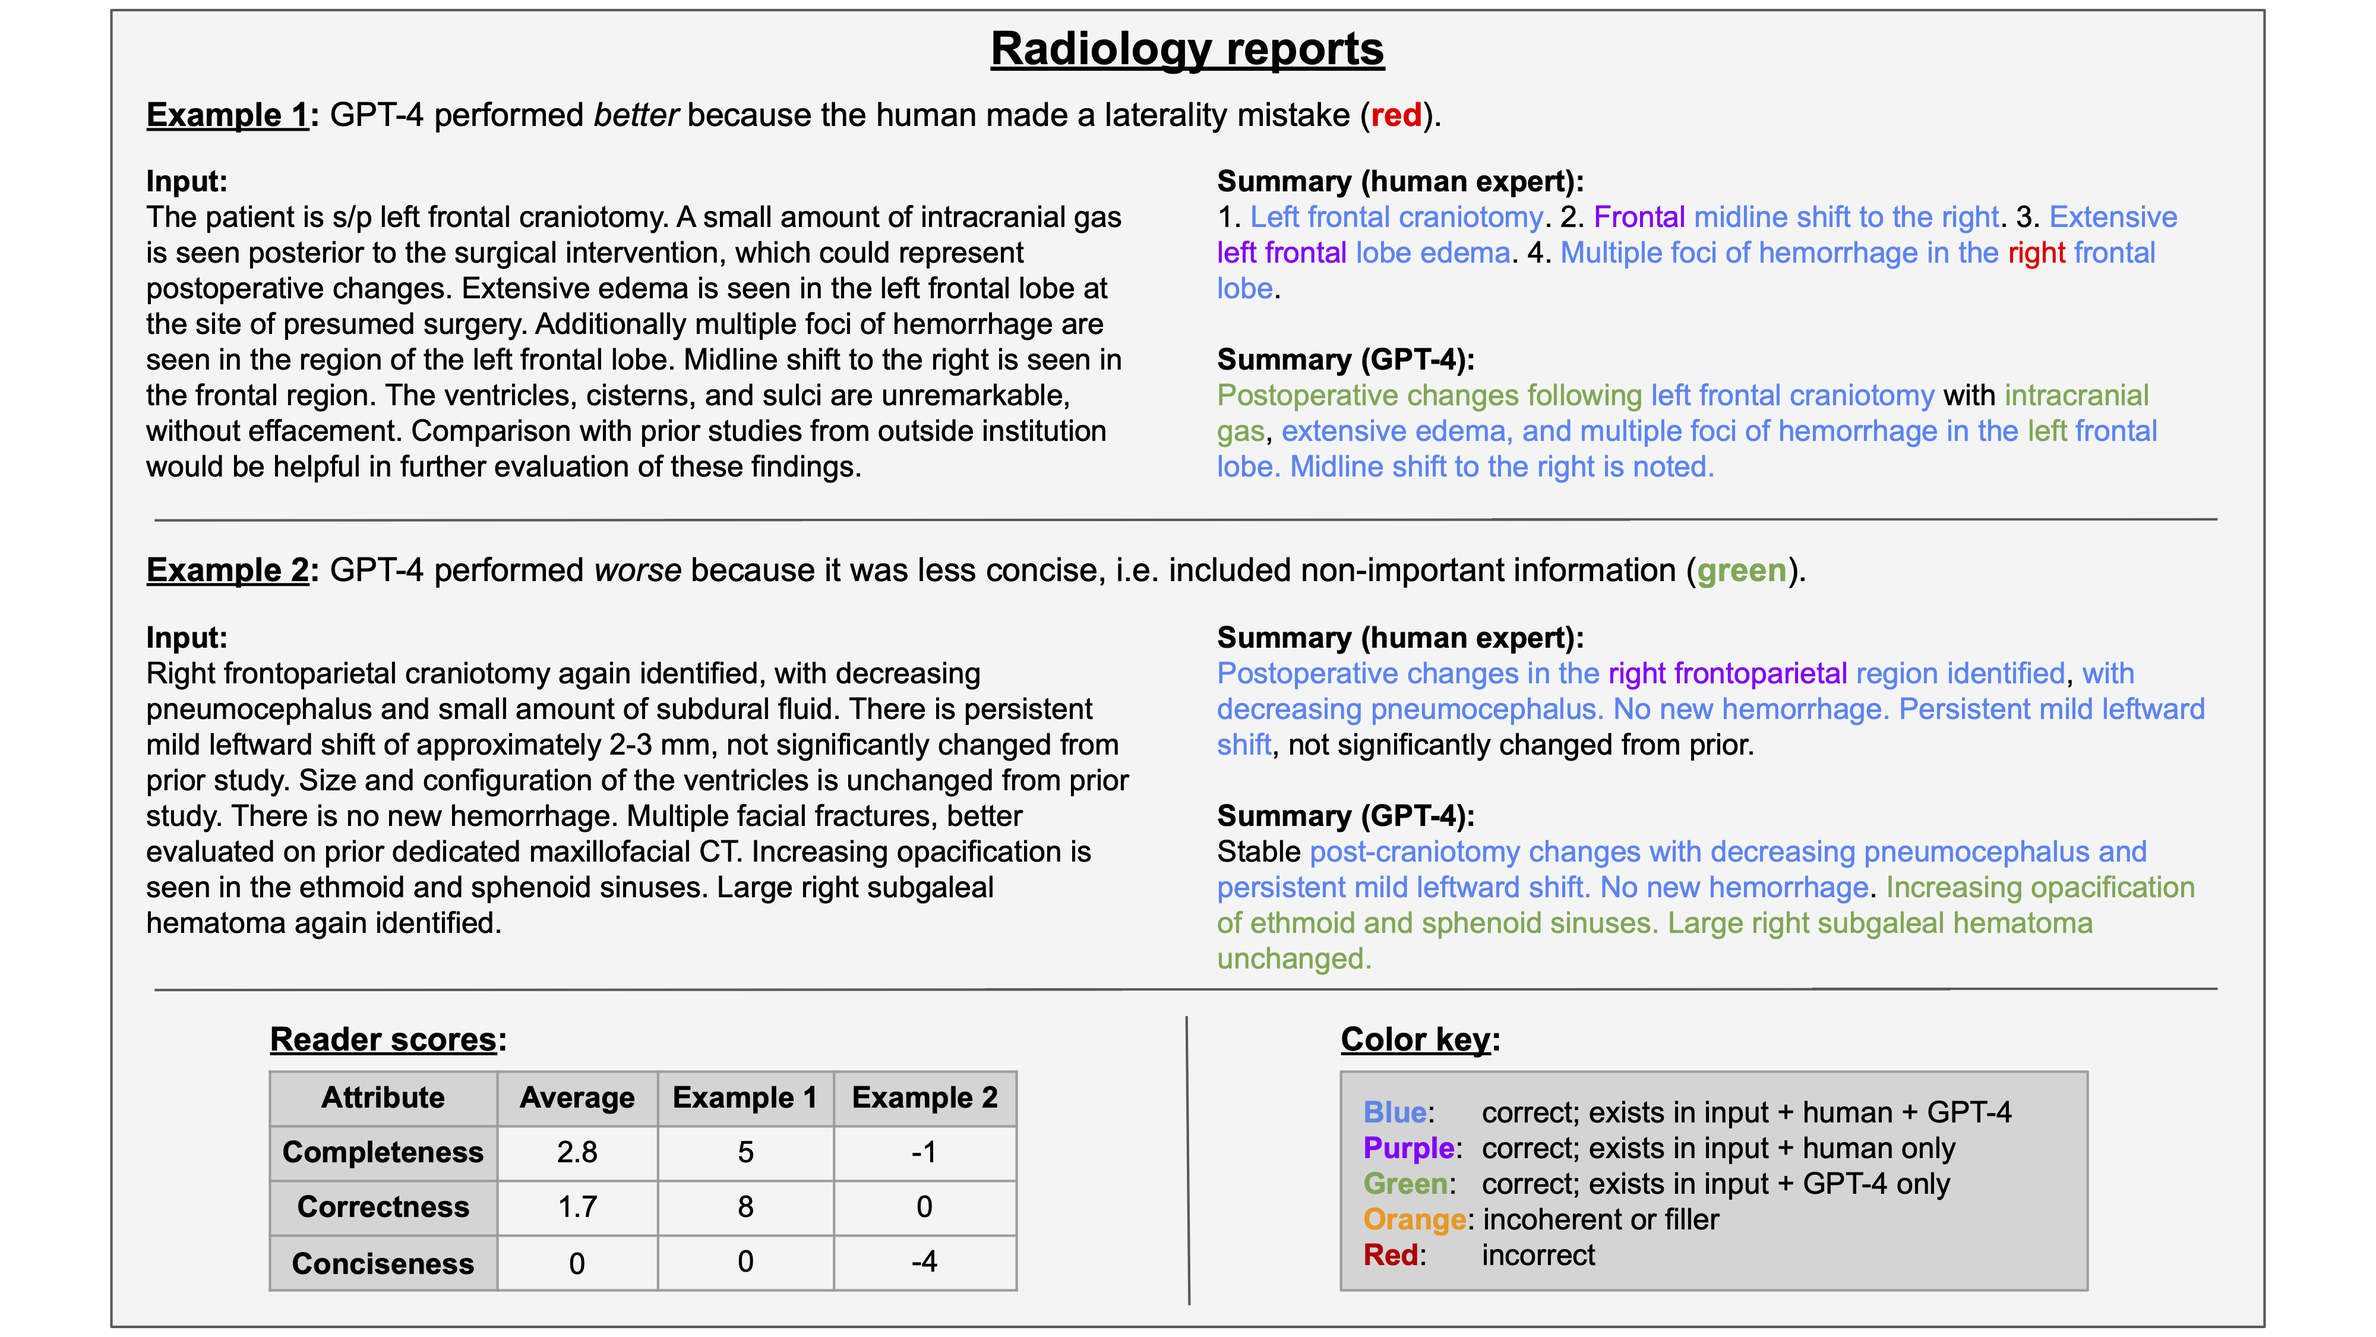
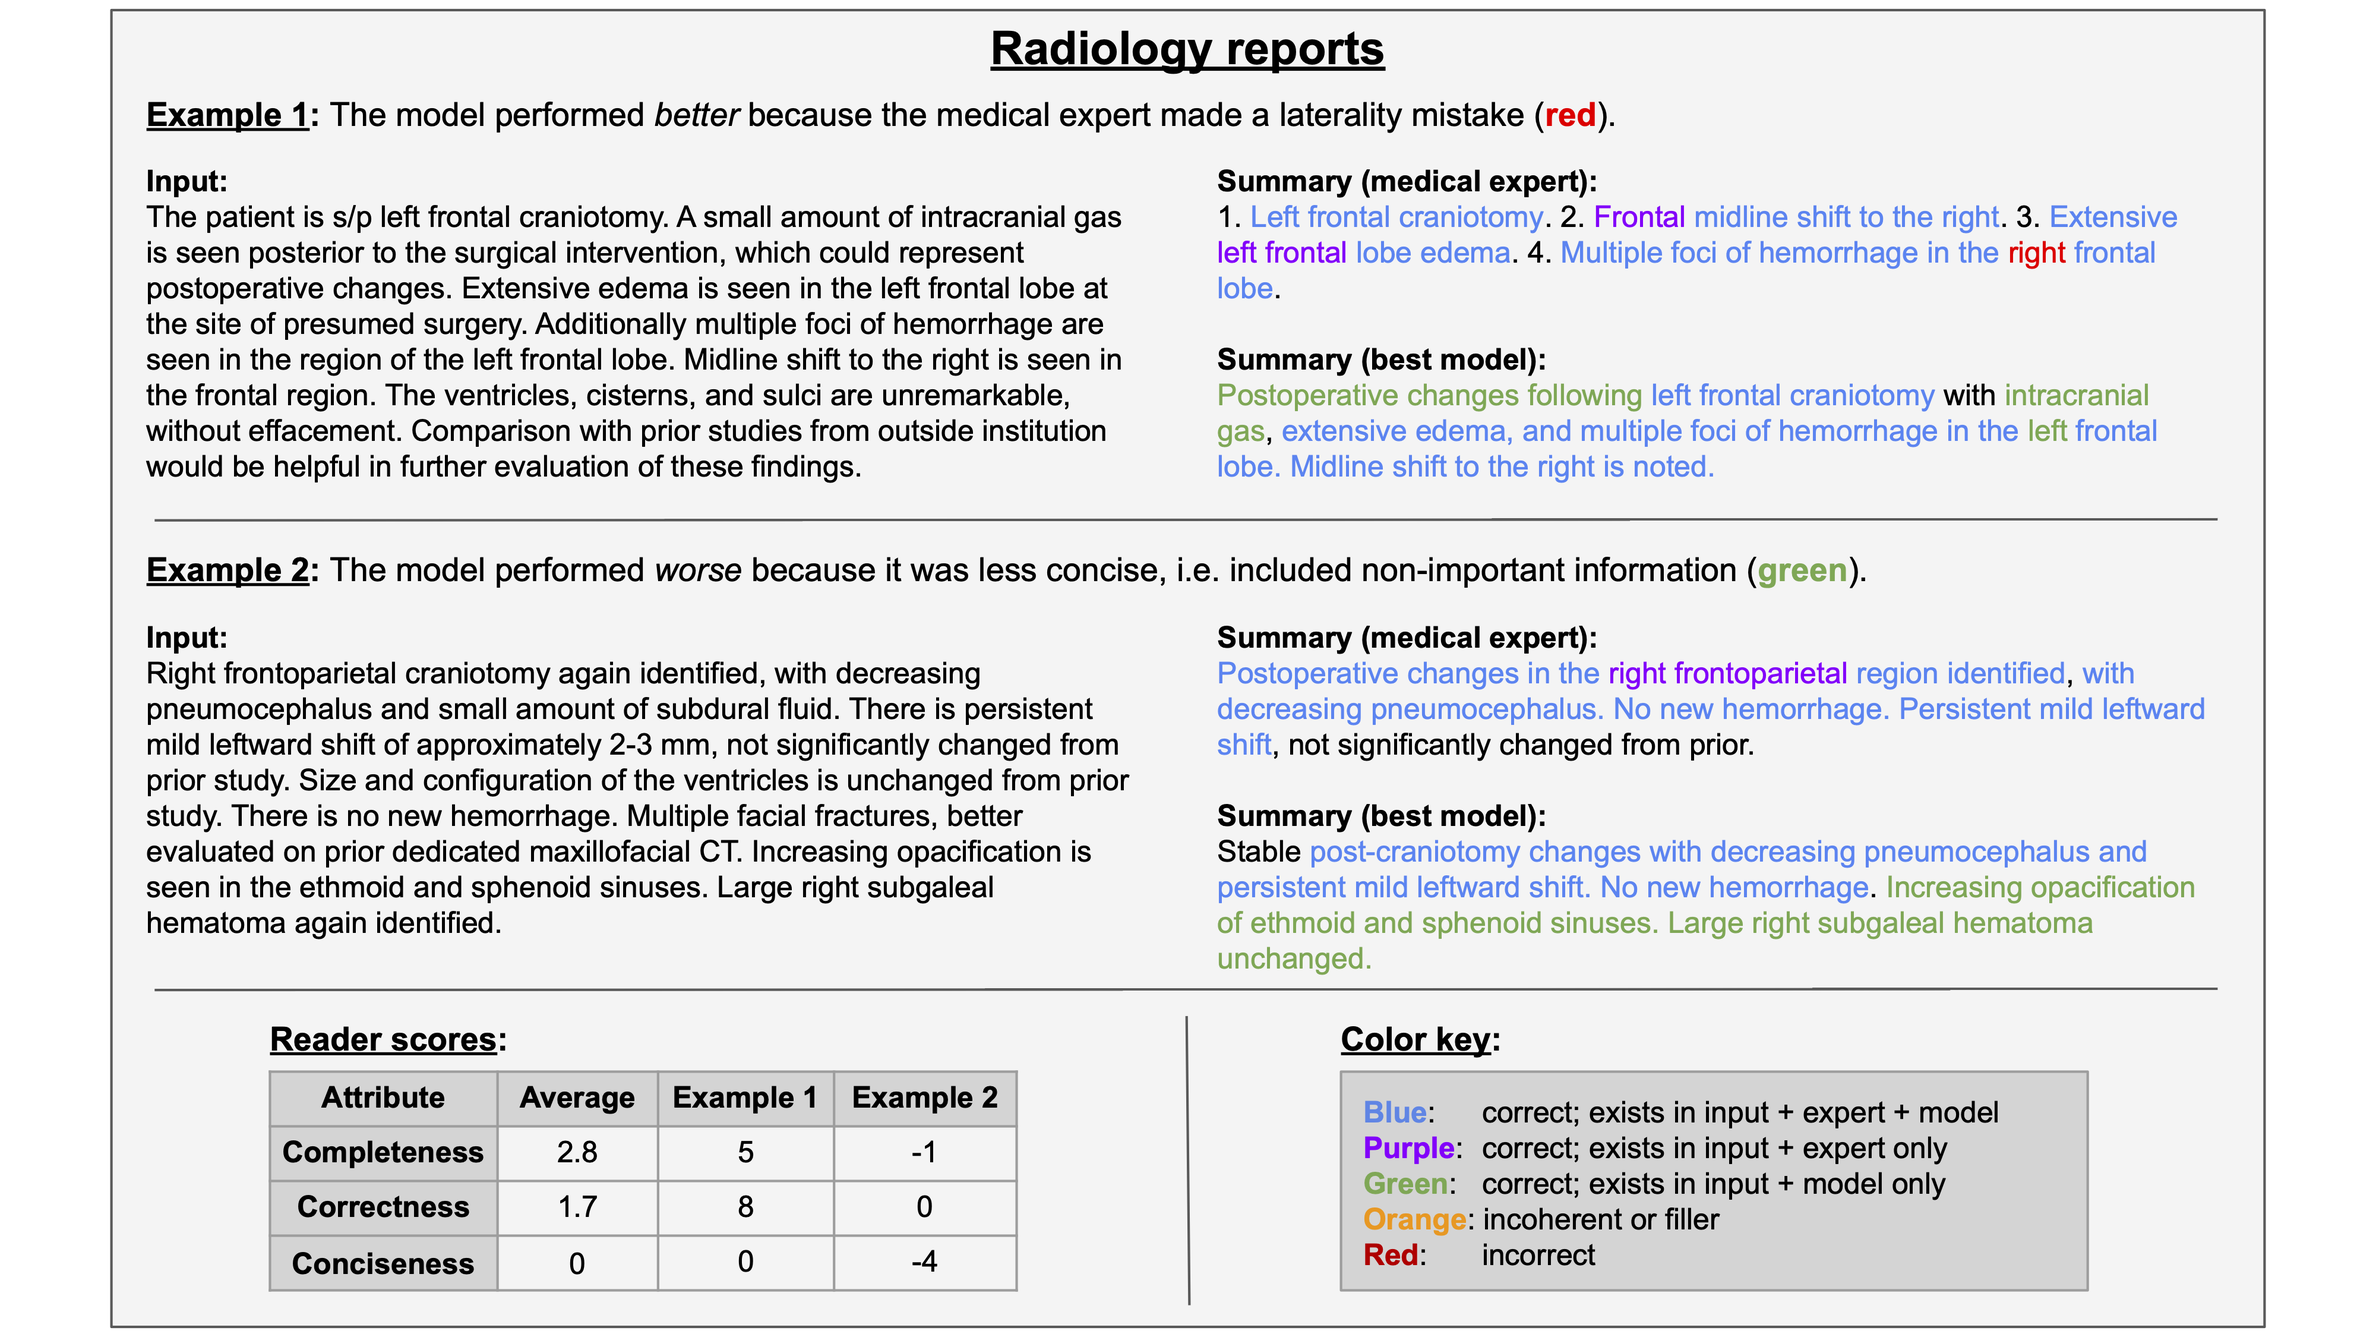
sync w arxiv v4

diff --git a/index.html b/index.html
@@ -136,9 +136,9 @@
 
 <html>
 <head>
-	<title>Clinical Text Summarization: Adapting Large Language Models Can Outperform Human Experts</title>
+	<title>Adapted Large Language Models Can Outperform Medical Experts in Clinical Text Summarization</title>
 	<meta property="og:image" content="resources/teaser.png"/>
-	<meta property="og:title" content="Clinical Text Summarization: Adapting Large Language Models Can Outperform Human Experts" />
+	<meta property="og:title" content="Adapted Large Language Models Can Outperform Medical Experts in Clinical Text Summarization" />
 	<meta property="og:description" content="Adapting LLMs for the task of summarizing clinical text." />
 	<script>
 	  window.dataLayer = window.dataLayer || [];
@@ -158,7 +158,7 @@
 	<br>
 	<center>
 		<span style="font-size:36px">
-			Clinical Text Summarization: Adapting Large <br /> Language Models Can Outperform Human Experts
+            Adapted Large Language Models Can Outperform <br /> Medical Experts in Clinical Text Summarization 
 		</span>
 		</br></br>
 		
@@ -328,9 +328,10 @@
 		<center><h1>Abstract</h1></center>
 		<tr>
 			<td style='text-align: justify;'>
-				<p>Sifting through vast textual data and summarizing key information from electronic health records (EHR) imposes a substantial burden on how clinicians allocate their time. Although large language models (LLMs) have shown immense promise in natural language processing (NLP) tasks, their efficacy on a diverse range of clinical summarization tasks has not yet been rigorously demonstrated.</p>
-				<p>In this work, we apply domain adaptation methods to eight LLMs, spanning six datasets and four distinct clinical summarization tasks: radiology reports, patient questions, progress notes, and doctor-patient dialogue. Our thorough quantitative assessment reveals trade-offs between models and adaptation methods in addition to instances where recent advances in LLMs may not improve results. Further, in a clinical reader study with ten physicians, we show that summaries from our best-adapted LLMs are preferable to human summaries in terms of completeness and correctness. Our ensuing qualitative analysis highlights challenges faced by both LLMs and human experts. Lastly, we correlate traditional quantitative NLP metrics with reader study scores to enhance our understanding of how these metrics align with physician preferences.</p>
-				<p>Our research marks the first evidence of LLMs outperforming human experts in clinical text summarization across multiple tasks. This implies that integrating LLMs into clinical workflows could alleviate documentation burden, empowering clinicians to focus more on personalized patient care and the inherently human aspects of medicine.</p>
+                <p>Analyzing vast textual data and summarizing key information from electronic health records imposes a substantial burden on how clinicians allocate their time. Although large language models (LLMs) have shown promise in natural language processing (NLP), their effectiveness on a diverse range of clinical summarization tasks remains unproven.</p>
+                <p>In this study, we apply adaptation methods to eight LLMs, spanning four distinct clinical summarization tasks: radiology reports, patient questions, progress notes, and doctor-patient dialogue. Quantitative assessments with syntactic, semantic, and conceptual NLP metrics reveal trade-offs between models and adaptation methods. A clinical reader study with ten physicians evaluates summary completeness, correctness, and conciseness; in a majority of cases, summaries from our best adapted LLMs are either equivalent (45%) or superior (36%) compared to summaries from medical experts. The ensuing safety analysis highlights challenges faced by both LLMs and medical experts, as we connect errors to potential medical harm and categorize types of fabricated
+information.</p> 
+            <p>Our research provides evidence of LLMs outperforming medical experts in clinical text summarization across multiple tasks. This suggests that integrating LLMs into clinical workflows could alleviate documentation burden, allowing clinicians to focus more on patient care.</p>
 			</td>
 		</tr>
 	</table>
@@ -354,7 +355,8 @@
 	<table align=center width=800px>
 		<tr>
 			<td align=left width=800px>
-				Prompt components used for both adaptation methods: in-context learning (ICL, m &gt; 0) and quantized low-rank adaptation (QLoRA, m &equals; 0).
+				<b>Left:</b> Prompt anatomy for both adaptation methods: in-context learning (ICL, m &gt; 0) and quantized low-rank adaptation (QLoRA, m &equals; 0).
+                <b>Right:</b> We generally find better performance when (1) using lower temperature, i.e. generating less random output, as summarization tasks benefit more from truthfulness than creativity (2) assigning the model clinical expertise in the prompt.
 			</td>
 		</tr>
 	</table>
@@ -404,7 +406,7 @@
 	<table align=center width=800px>
 		<tr>
 			<td align=left width=800px>
-					Quantitative metric (MEDCON) scores vs. number of in-context examples across models and datasets. We also include the best model fine-tuned with QLoRA (FLAN-T5) as a horizontal dashed line for valid datasets. Zero-shot prompting (0 examples) often yields considerably inferior results, underscoring the need for adaptation methods. Note the allowable number of in-context examples varies signficantly by model context length and dataset size. See the paper for more details and results across other metrics (BLEU, ROUGE-L, BERTScore).
+					Quantitative metric (MEDCON) scores vs. number of in-context examples across models and datasets. We also include the best model fine-tuned with QLoRA (FLAN-T5) as a horizontal dashed line for valid datasets. Zero-shot prompting (0 examples) often yields considerably inferior results, underscoring the need for adaptation methods. Note the allowable number of in-context examples varies signficantly by model context length and dataset size. See the paper for results across other metrics.
 			</td>
 		</tr>
 	</table>
@@ -429,33 +431,13 @@
 	<table align=center width=800px>
 		<tr>
 			<td align=left width=800px>
-					Clinical reader study. Top: Study design comparing the summarization of GPT-4 vs. that of human experts on three attributes: completeness, correctness, and conciseness. Bottom: Results. GPT-4 summaries are rated higher than human summaries on all attributes. The most pronounced difference occurs in completeness without compromising conciseness. Meanwhile for correctness, the radiology reports task most benefits from GPT-4. Highlight colors correspond to a value’s location on the color spectrum. Asterisks denote statistical significance by Wilcoxon signed-rank test, &ast;p-value &lt; 0.001.
-			</td>
-		</tr>
-	</table>
-	<br>
-
-
-    <br>
-    <hr>
-    <br>
-
-
-	<br>
-	<table align=center width=400px>
-		<tr>
-			<td align=center width=400px >
-				<center >
-					<td class="img-magnifier-container"><img id="myimage" style="width:700px" src="resources/freq_plot.png"/></td>
-				</center>
-			</td>
-		</tr>
-	</table>
-
-	<table align=center width=800px>
-		<tr>
-			<td align=left width=800px>
-					Distribution of reader scores for each summarization task across evaluated attributes (completeness, correctness, conciseness). Horizontal axes denote reader preference between GPT-4 and human summaries as measured by a five-point Likert scale. Vertical axes denote frequency count, with 1,500 total reports for each plot. GPT-4 summaries are more often preferred across all attributes. The largest gain in correctness occurs on radiology reports, as no false information was found in GPT-4 summaries for this task.
+					<b>Clinical reader study.</b>
+                    <b>(a)</b> Study design comparing the summaries from the best model versus that of medical
+experts on three attributes: completeness, correctness, and conciseness.
+                    <b>(b)</b> Results. Model summaries are rated higher on all attributes. Highlight colors correspond to a value’s location on the color spectrum. Asterisks (*) denote statistical significance.
+                    <b>(c)</b> Distribution of reader scores. Horizontal axes denote reader preference as measured by a five-point Likert scale. Vertical axes denote frequency count, with 1,500 total reports for each plot.
+                    <b>(d)</b> Extent and likelihood of potential medical harm caused by choosing summaries from the medical expert (pink) or best model (purple) over the other. Model summaries are preferred in both categories.
+                    <b>(e)</b> Reader study user interface.
 			</td>
 		</tr>
 	</table>
@@ -481,7 +463,9 @@
 	<table align=center width=800px>
 		<tr>
 			<td align=left width=800px>
-                    Annotation of two radiologist report examples from the reader study. In the top example, GPT-4 performs better due to a laterality mistake by the human expert. In the bottom example, GPT-4 exhibits a lack of conciseness. The table (lower left) contains reader scores for these two examples and the task average across all samples.
+                    <b>Annotation: radiology reports.</b> The table (lower left) contains reader scores for these two examples and the task average across all samples.
+                    <b>Top:</b>The model performs better due to a laterality mistake by the medical expert.
+                    <b>Bottom:</b>The model exhibits a lack of conciseness. The table (lower left) contains reader scores for these two examples and the task average across all samples.
 			</td>
 		</tr>
 	</table>
@@ -507,7 +491,7 @@
 	<table align=center width=800px>
 		<tr>
 			<td align=left width=800px>
-                    Spearman correlation coefficients between NLP metrics and reader preference assessing completeness, correctness, and conciseness. The semantic metric (BERTScore) and conceptual metric (MEDCON) correlate most highly with correctness. Meanwhile, syntactic metrics BLEU and ROUGE-L correlate most with completeness.
+                    Spearman correlation coefficients between NLP metrics and reader scores. The semantic metric (BERTScore) and conceptual metric (MEDCON) correlate most highly with correctness. Meanwhile, syntactic metrics BLEU and ROUGE-L correlate most with completeness.
 			</td>
 		</tr>
 	</table>
@@ -523,7 +507,7 @@
 		<tr>
 			<td><a href="https://arxiv.org/abs/2309.07430"><img class="layered-paper-big" style="height:175px" src="resources/thumbnail.png"/></a></td>
 			<td><span style="font-size:14pt">D. Van Veen, C. Van Uden, L. Blankemeier,<br />J.B. Delbrouck, A. Aali, C. Bluethgen,<br />A. Pareek, M. Polacin, E.P. Reis<br />A. Seehofnerova, N. Rohatgi, P. Hosamani<br />W. Collins, N. Ahuja, C.P. Langlotz, J. Hom,<br />S. Gatidis, J. Pauly, A.S. Chaudhari<br>
-				<b>Clinical Text Summarization: Adapting Large Language Models Can Outperform Human Experts</b><br>
+				<b>Adapted Large Language Models Can Outperform Medical Experts in Clinical Text Summarization</b><br>
 				2023. (hosted on <a href="https://arxiv.org/pdf/2309.07430.pdf">ArXiv</a>)<br>
 				<span style="font-size:4pt"><a href=""><br></a>
 				</span>

diff --git a/README.md b/README.md
@@ -1,21 +1,63 @@
 # Clinical Text Summarization by Adapting LLMs
 
-Official implementation from Stanford University, coming soon!<br>
-- <b> Title: </b>[Clinical Text Summarization: Adapting Large Language Models Can Outperform Human Experts](https://arxiv.org/pdf/2309.07430.pdf)<br>
-- <b>Authors: </b>[Dave Van Veen](https://davevanveen.com/), Cara Van Uden, Louis Blankemeier, Jean-Benoit Delbrouck, Asad Aali, Christian Bluethgen, Anuj Pareek, Malgorzata Polacin, William Collins, Neera Ahuja, Curtis P. Langlotz, Jason Hom, Sergios Gatidis, John Pauly, Akshay S. Chaudhari 
+Official implementation from Stanford University<br>
+- <b> Title: </b>[Adapted Large Language Models Can Outperform Medical Experts in Clinical Text Summarization](https://arxiv.org/pdf/2309.07430.pdf)<br>
+- <b>Authors: </b>[Dave Van Veen](https://davevanveen.com/), Cara Van Uden, Louis Blankemeier, Jean-Benoit Delbrouck, Asad Aali, Christian Bluethgen, Anuj Pareek, Malgorzata Polacin, Eduardo Pontes Reis, Anna Seehofnerova Nidhi Rohatgi, Poonam Hosamani, William Collins, Neera Ahuja, Curtis P. Langlotz, Jason Hom, Sergios Gatidis, John Pauly, Akshay S. Chaudhari
 - <b>Contact: </b>{vanveen} [at] stanford [dot] edu<br>
 
 <img src='img/teaser.png'/>
 
-## Code and Data
 
-We will publish our code and pre-processed data no later than October 31st, 2023. Feel free to star the repo so you don't miss it.
+## Datasets
+We use six pre-existing open-source datasets which are publicly accessible at the sources cited in our manuscript. Additionally, for datasets which do not require PhysioNet access, we provide our versions in `data/`:
+- `opi`: Open-i (radiology reports)
+- `chq`: MeQSum (patient/consumer health questions)
+- `d2n`: ACI-Bench (dialogue)
+
+## Models
+In addition to proprietary models GPT-3.5 and GPT-4, we adapt the following open-source models available from HuggingFace:
+- [FLAN-T5](https://huggingface.co/google/flan-t5-xl)
+- [FLAN-UL2](https://huggingface.co/google/flan-ul2)
+- [Alpaca](https://huggingface.co/chavinlo/alpaca-native)
+- [Med-Alpaca](https://huggingface.co/medalpaca/medalpaca-7b)
+- [Vicuna](https://huggingface.co/AlekseyKorshuk/vicuna-7b)
+- [Llama-2](https://huggingface.co/meta-llama/Llama-2-7b-hf)
+
+## Code
+
+### Set-up
+
+1. Use these commands to set up a conda environment:
+```
+conda env create -f env.yml
+conda activate clin-summ
+```
+2. In `src/constants.py`, create your own project directory `DIR_PROJECT` outside this repository which will contain input data, trained models, and generated output.
+3. Move input data from this repo to `DIR_PROJECT`, i.e. `mv data/ DIR_PROJECT`
+4. (optional) To add your own dataset, follow the format of example datasets `opi`, `chq`, and `d2n` in `DIR_PROJECT/data/`
+
+
+### Usage
+
+Below is a description of relevant scripts:
+
+- `./main.sh`: Fine-tune open-source models, query, and compute metrics
+- `python api/main.py`: Query OpenAI models and compute metrics
+    - first enter information for your Azure deployment in `src/constants.py` via `RESOURCE` and `API_KEY`
+- `python src/gen_faiss_idx.py`: (new datasets only) Determine set of nearest neighbors training examples for each sample. Alternatively you can sample training examples at random.
+- `src/UMLSScorer.py`: Class definition for the MEDCON metric. To implement, follow these steps:
+    1) Acquire approval for a [UMLS license](https://www.nlm.nih.gov/research/umls/index.html)
+    2) Follow the [UMLS download instructions](https://github.com/Georgetown-IR-Lab/QuickUMLS)
+    3) Adapt the provided script, `src/UMLSScorer.py`
+    4) Call using the following two lines:
+        - `scorer = UMLSScorer()`
+        - `medcon_score = scorer(string1, string2)`
 
 ## Citation
 
 ```
 @misc{vanveen2023clinical,
-      title={Clinical Text Summarization: Adapting Large Language Models Can Outperform Human Experts}, 
+      title={Clinical Text Summarization: Adapting Large Language Models Can Outperform Human Experts},
       author={Dave Van Veen and Cara Van Uden and Louis Blankemeier and Jean-Benoit Delbrouck and Asad Aali and Christian Bluethgen and Anuj Pareek and Malgorzata Polacin and William Collins and Neera Ahuja and Curtis P. Langlotz and Jason Hom and Sergios Gatidis and John Pauly and Akshay S. Chaudhari},
       year={2023},
       eprint={2309.07430},
